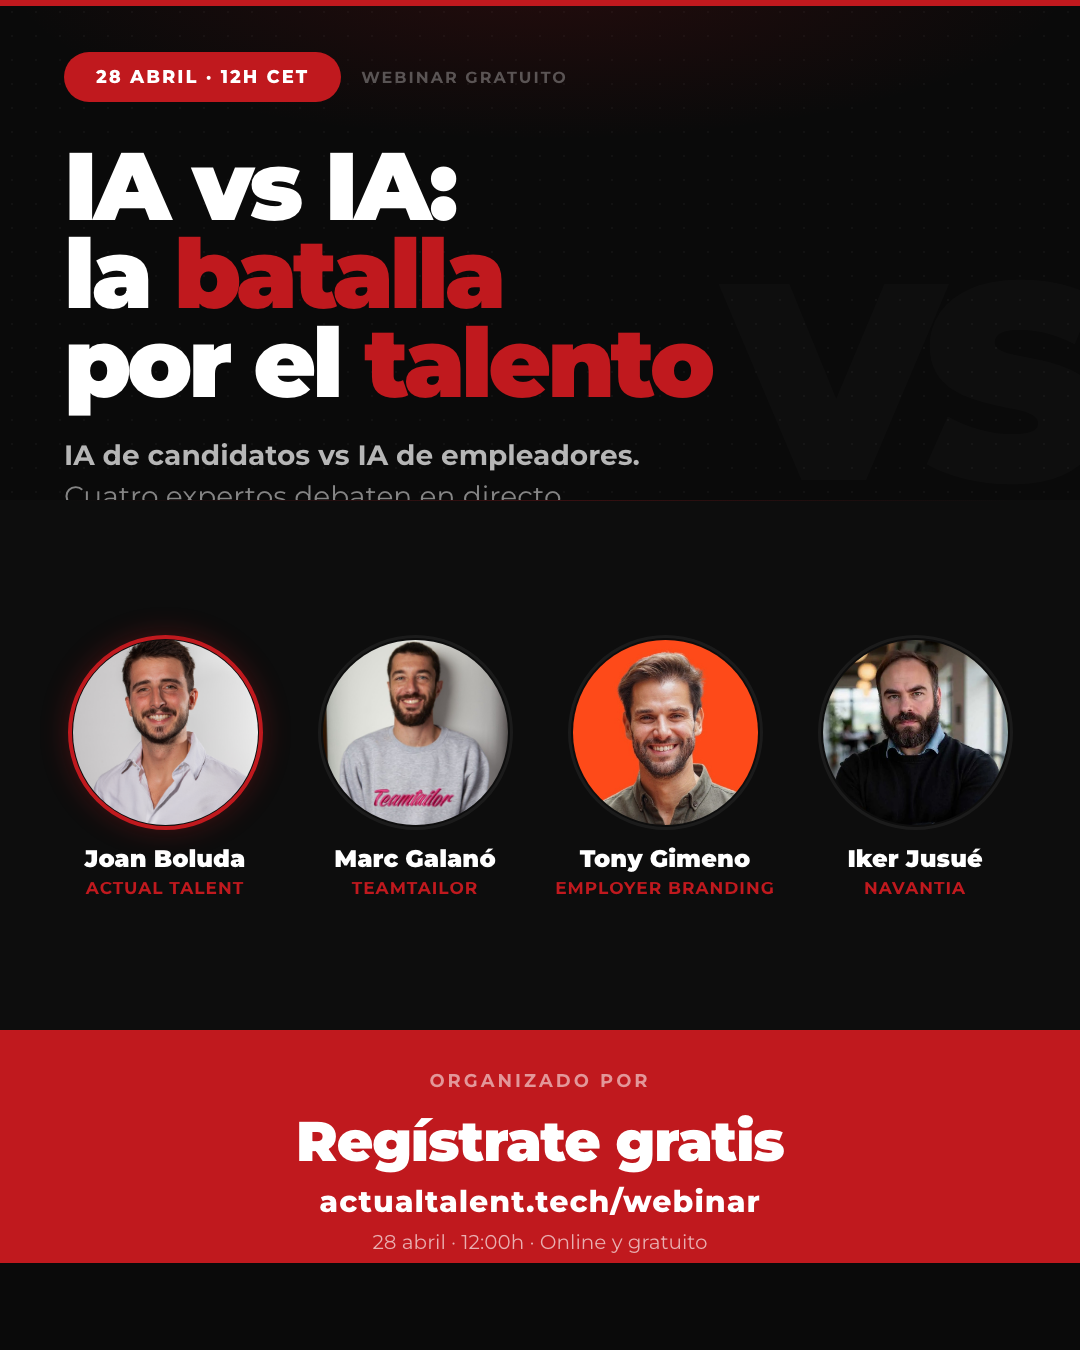
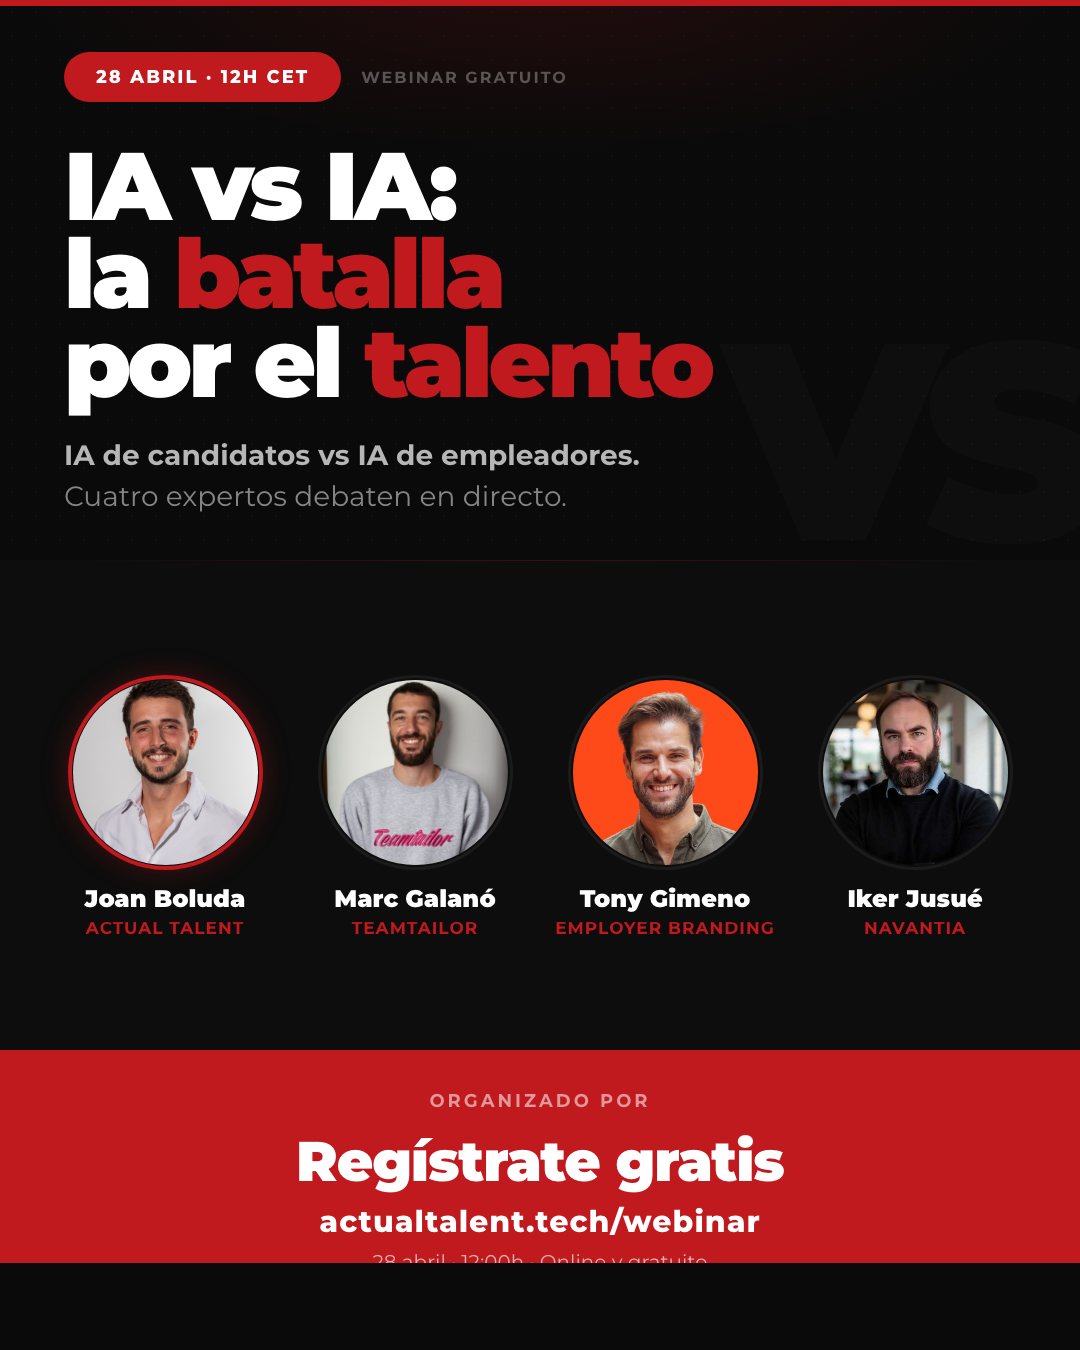
fix: flyer text no longer clipped (hero 560px) + venue link Casa Pascual y Pons + regenerated PNG

diff --git a/webinar/flyer/index.html b/webinar/flyer/index.html
@@ -36,7 +36,7 @@ body {
 
 /* ─── TOP: Title ─── */
 .hero {
-  flex: 0 0 500px; position: relative; overflow: hidden;
+  flex: 0 0 560px; position: relative; overflow: hidden;
   background: #0A0A0A;
   background-image: radial-gradient(circle, rgba(255,255,255,0.03) 1px, transparent 1px);
   background-size: 24px 24px;
@@ -86,7 +86,7 @@ body {
 
 /* ─── MIDDLE: Speakers ─── */
 .speakers {
-  flex: 0 0 530px;
+  flex: 0 0 490px;
   background: #0d0d0d;
   padding: 48px 40px 40px;
   position: relative;
@@ -137,7 +137,7 @@ body {
 
 /* ─── BOTTOM: Red CTA ─── */
 .cta-bar {
-  flex: 0 0 320px;
+  flex: 0 0 300px;
   background: #C0191E;
   display: flex; flex-direction: column;
   align-items: center; justify-content: center;
